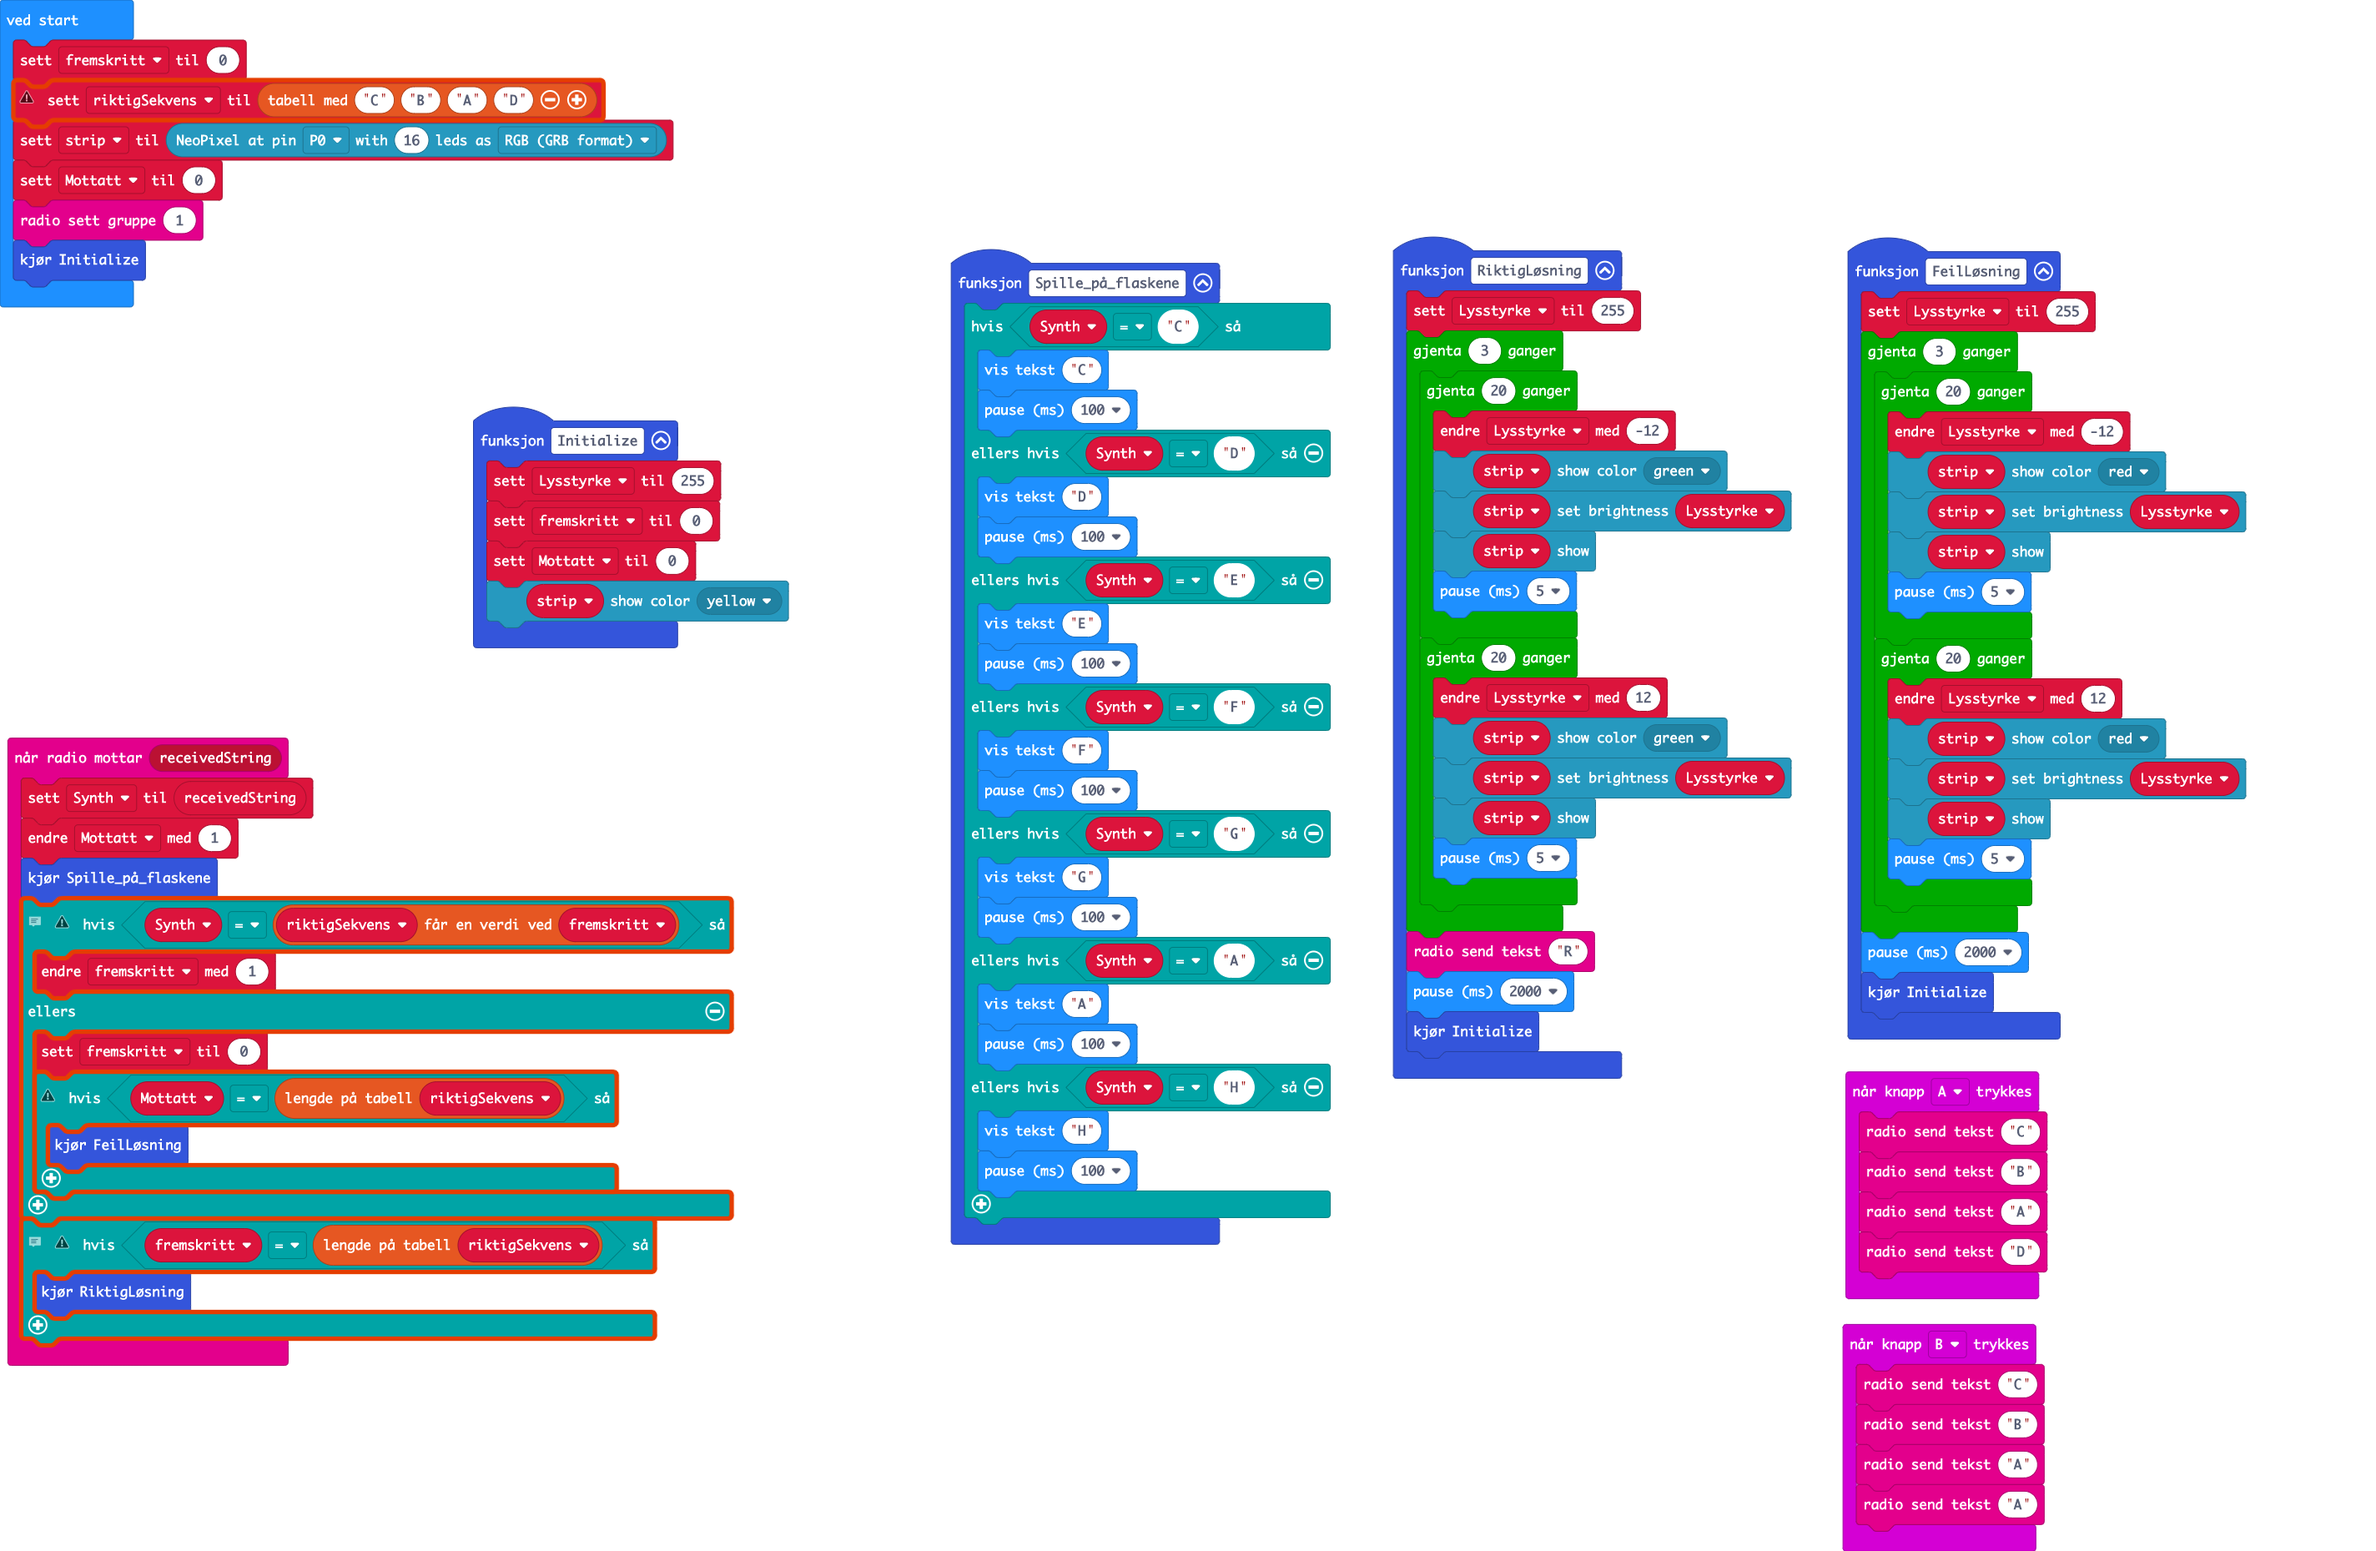
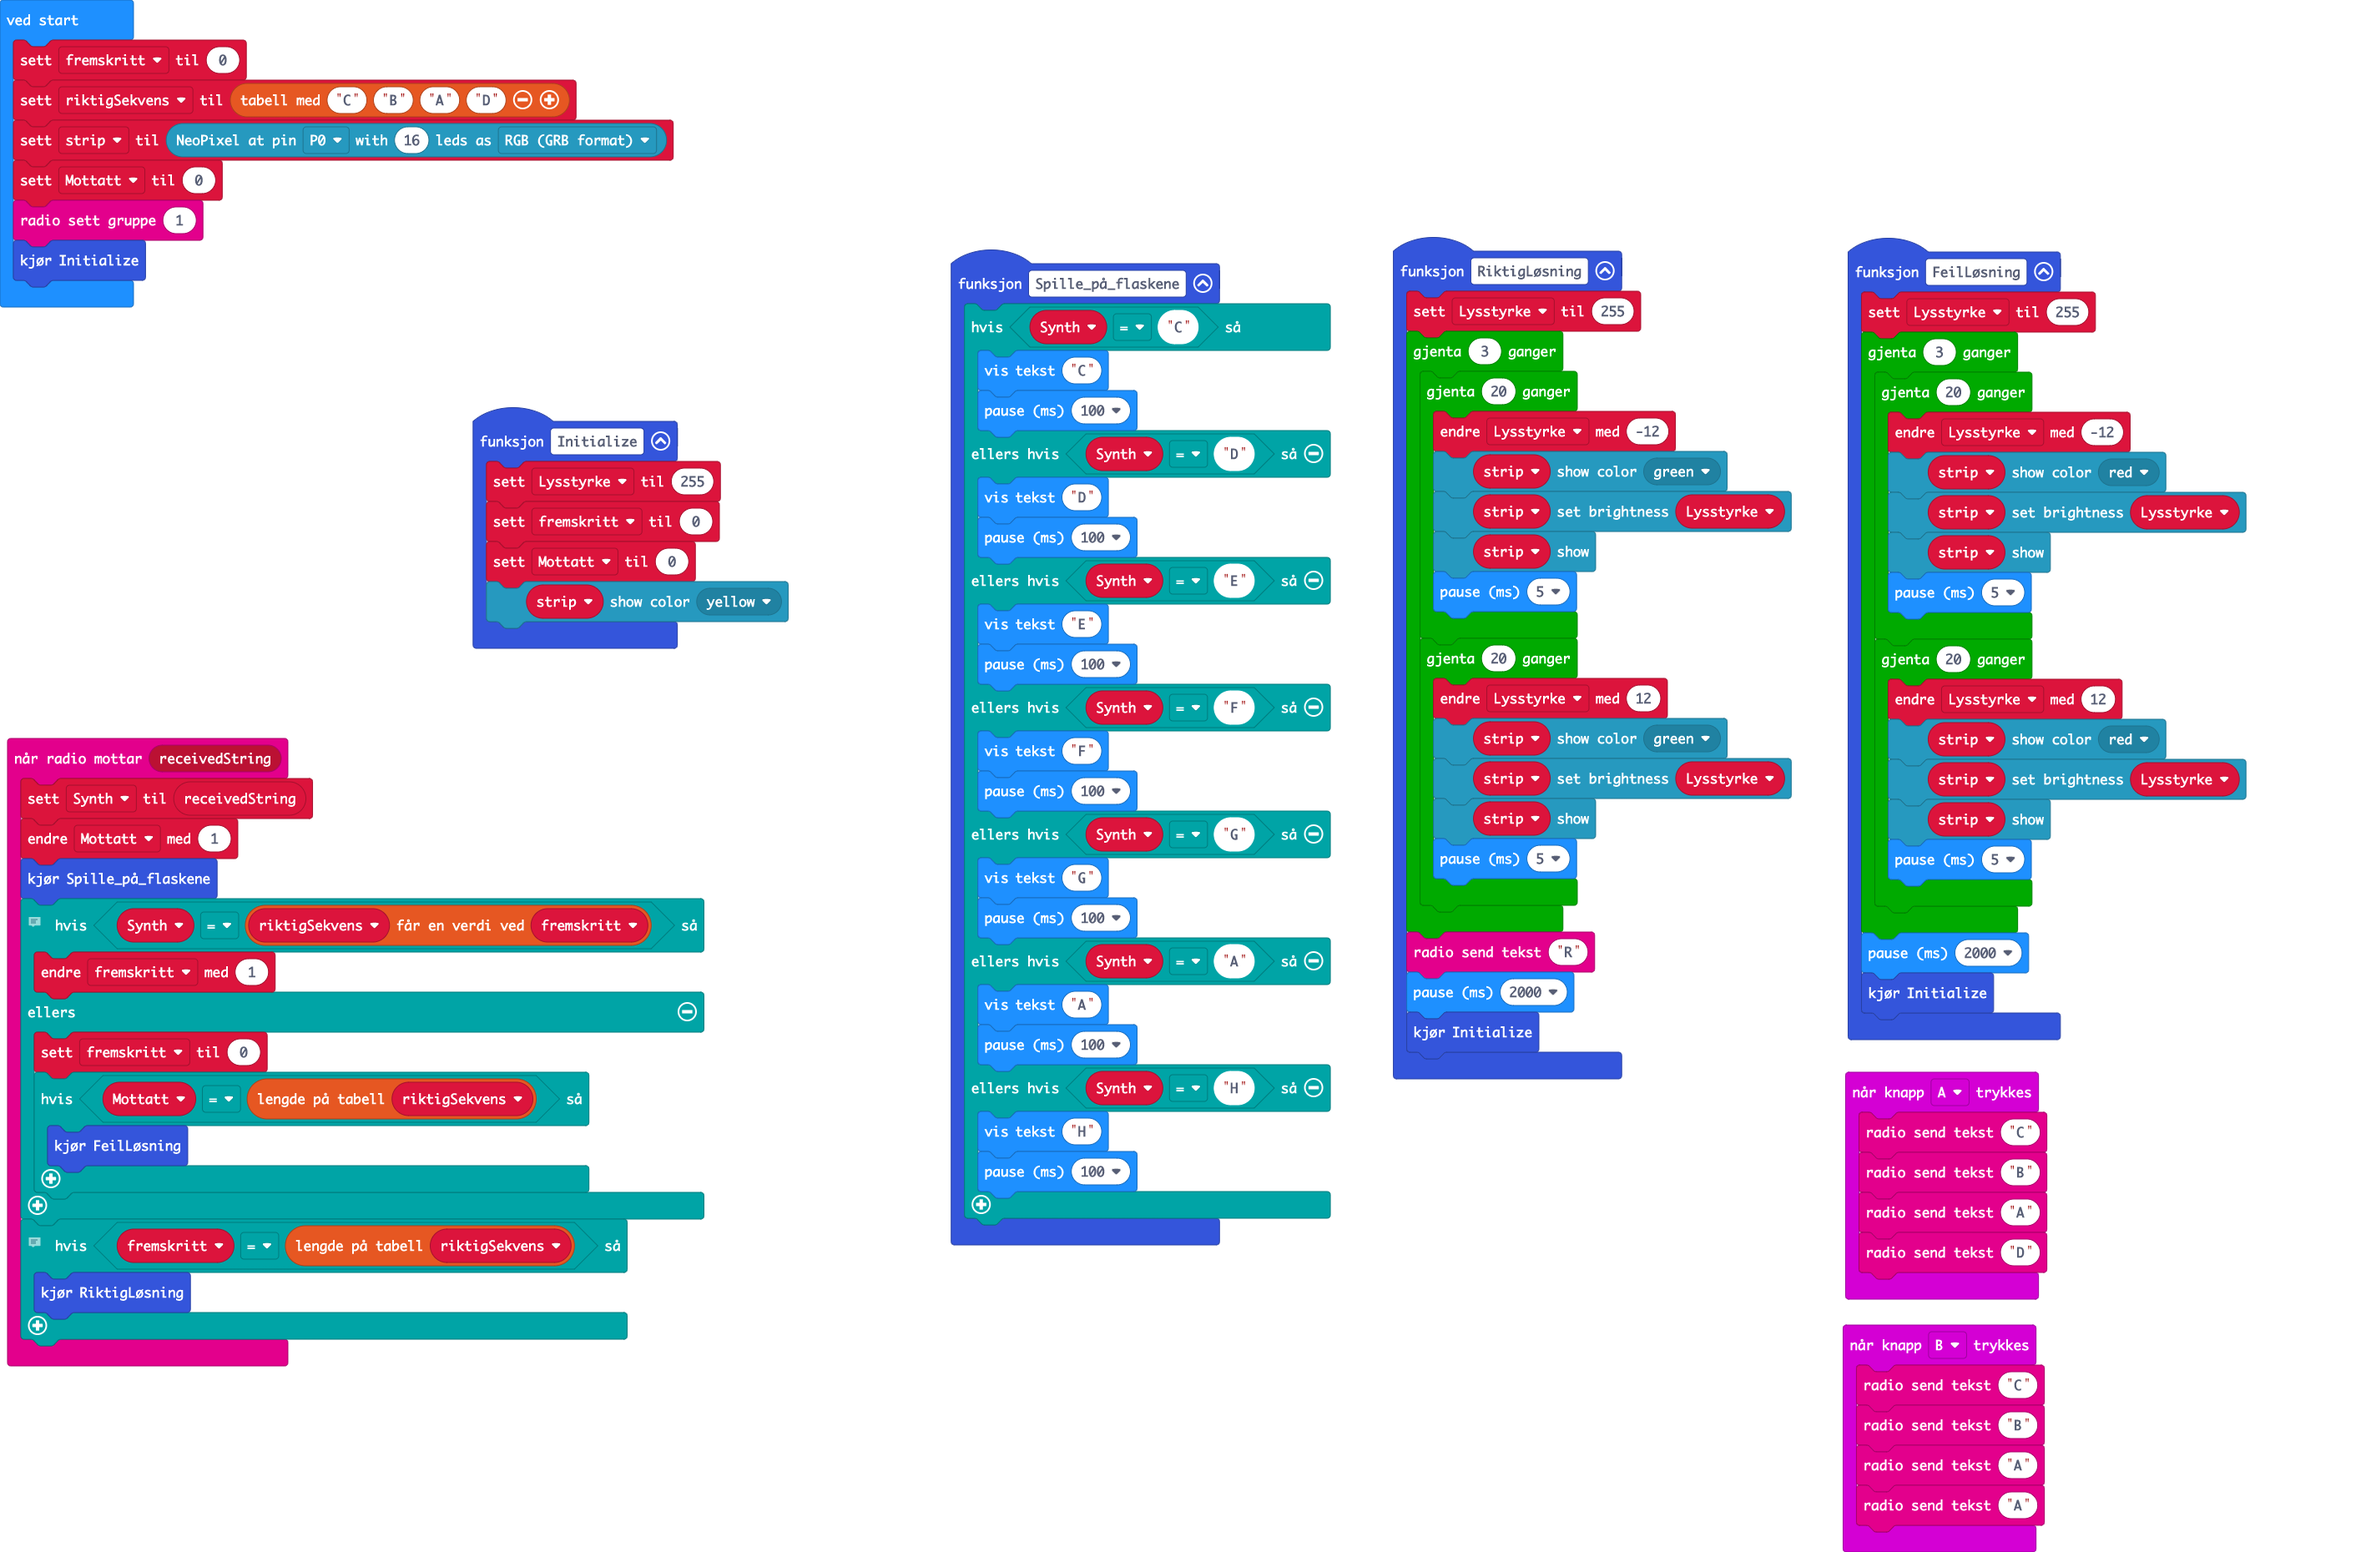
Oppdater main.blocks, main.ts

diff --git a/main.ts b/main.ts
@@ -105,7 +105,7 @@ let Synth = ""
 let Lysstyrke = 0
 let Mottatt = 0
 let strip: neopixel.Strip = null
-let riktigSekvens = 0
+let riktigSekvens: string[] = []
 let fremskritt = 0
 fremskritt = 0
 riktigSekvens = ["C", "B", "A", "D"]
